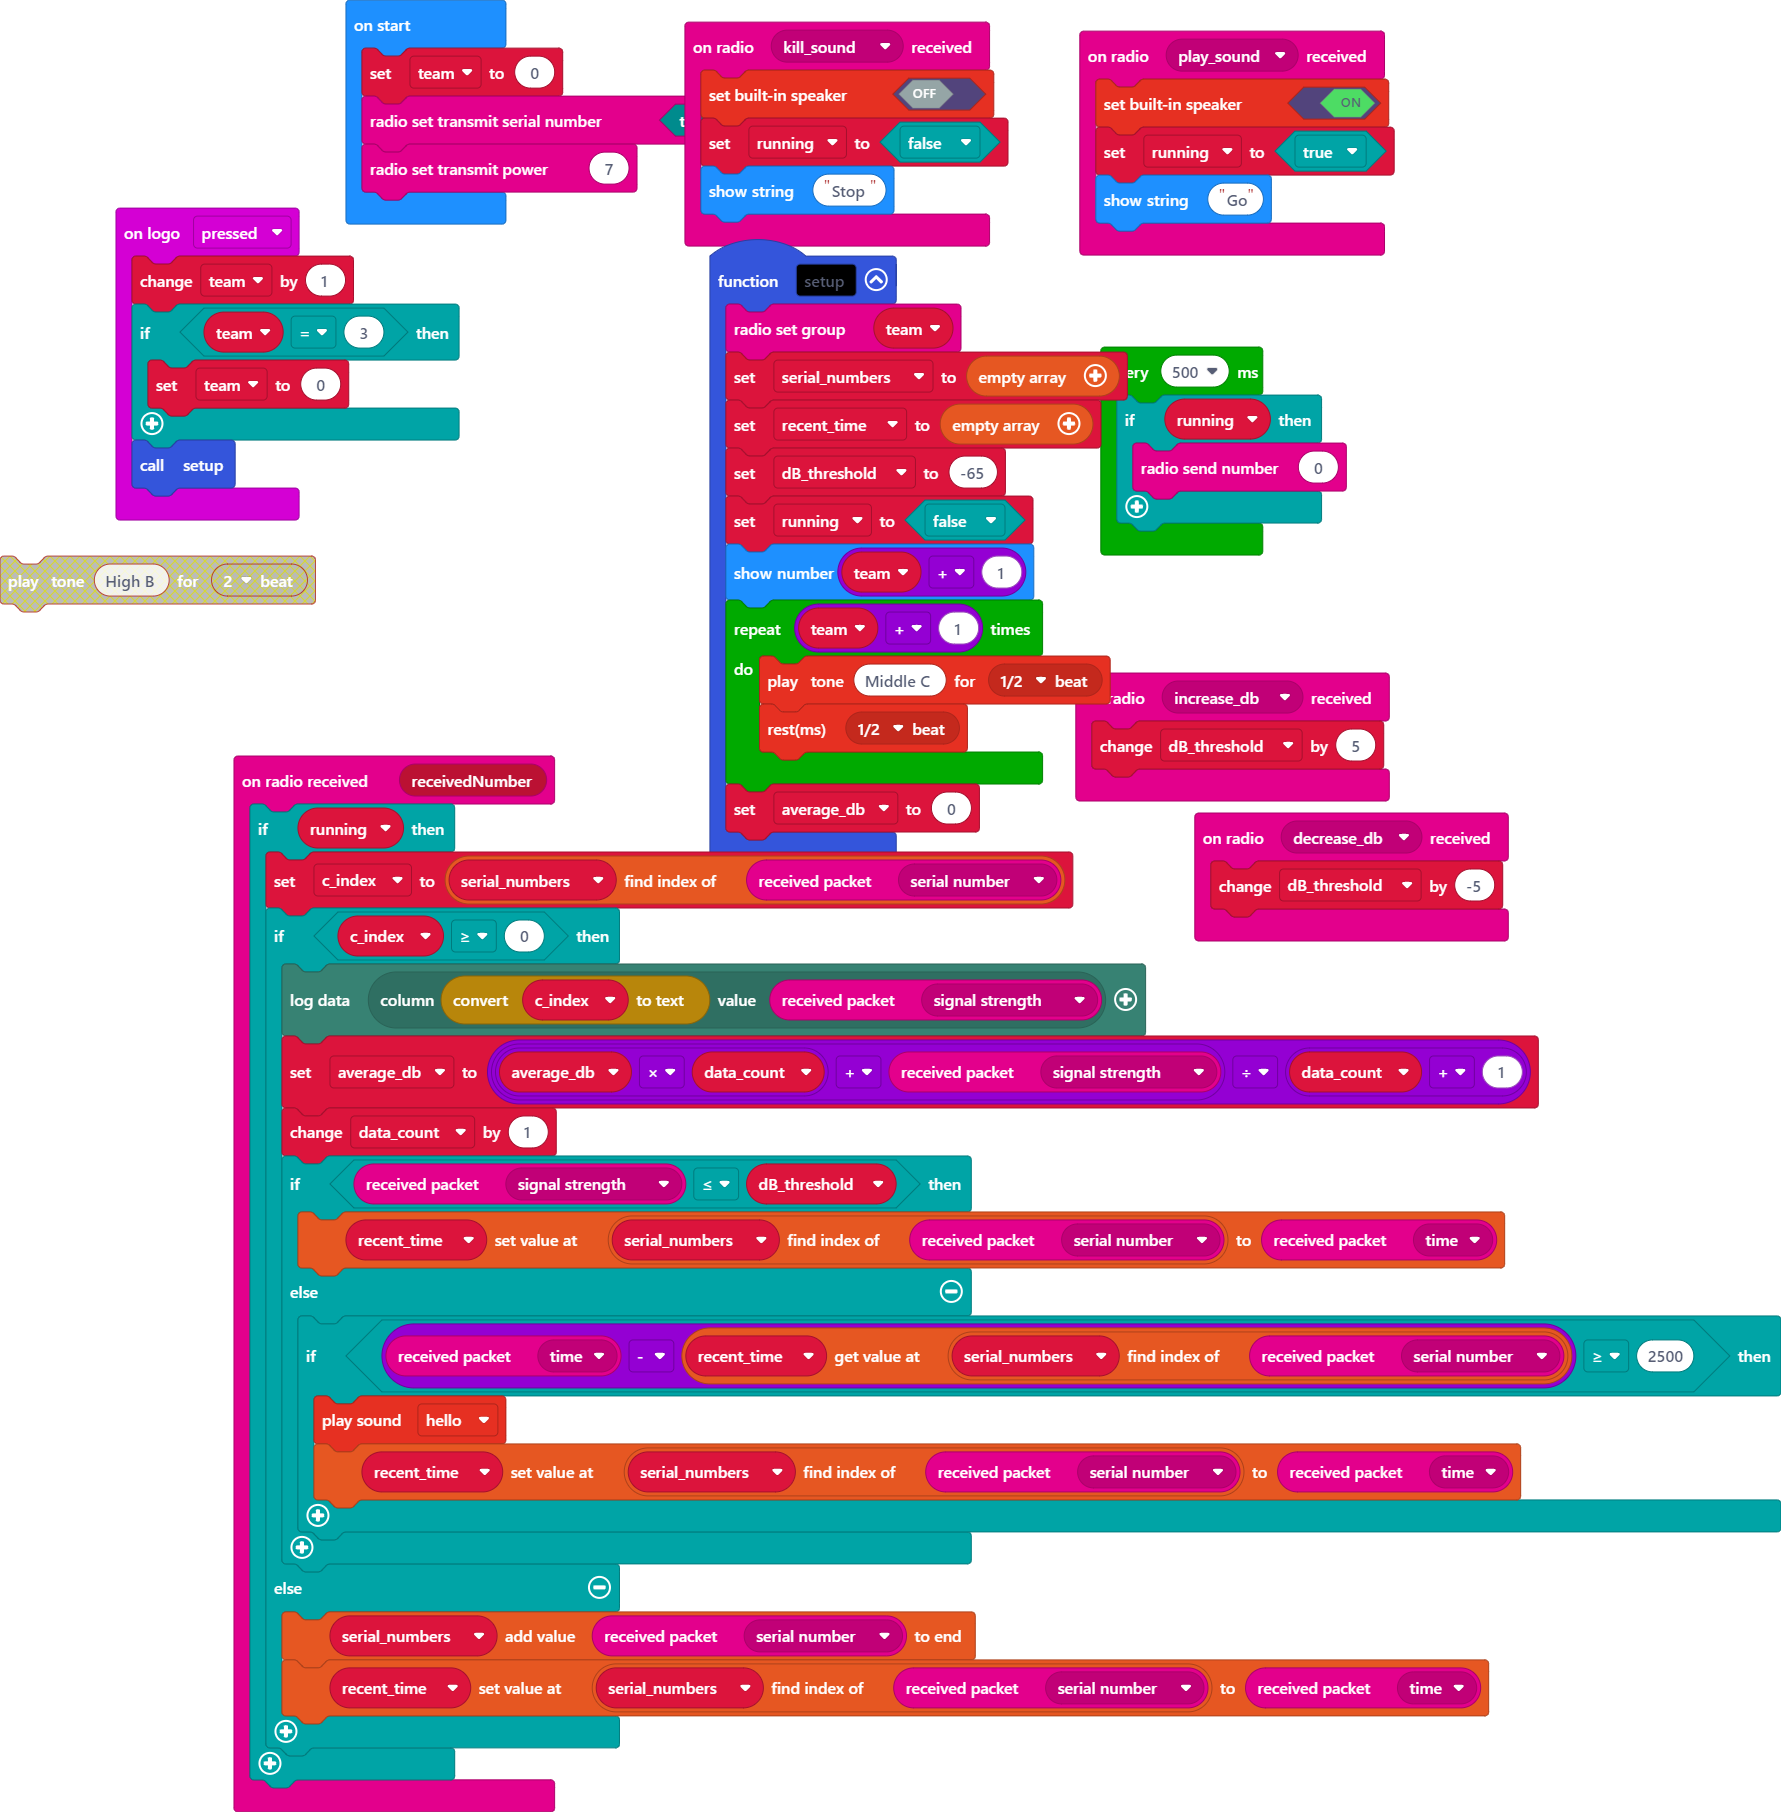
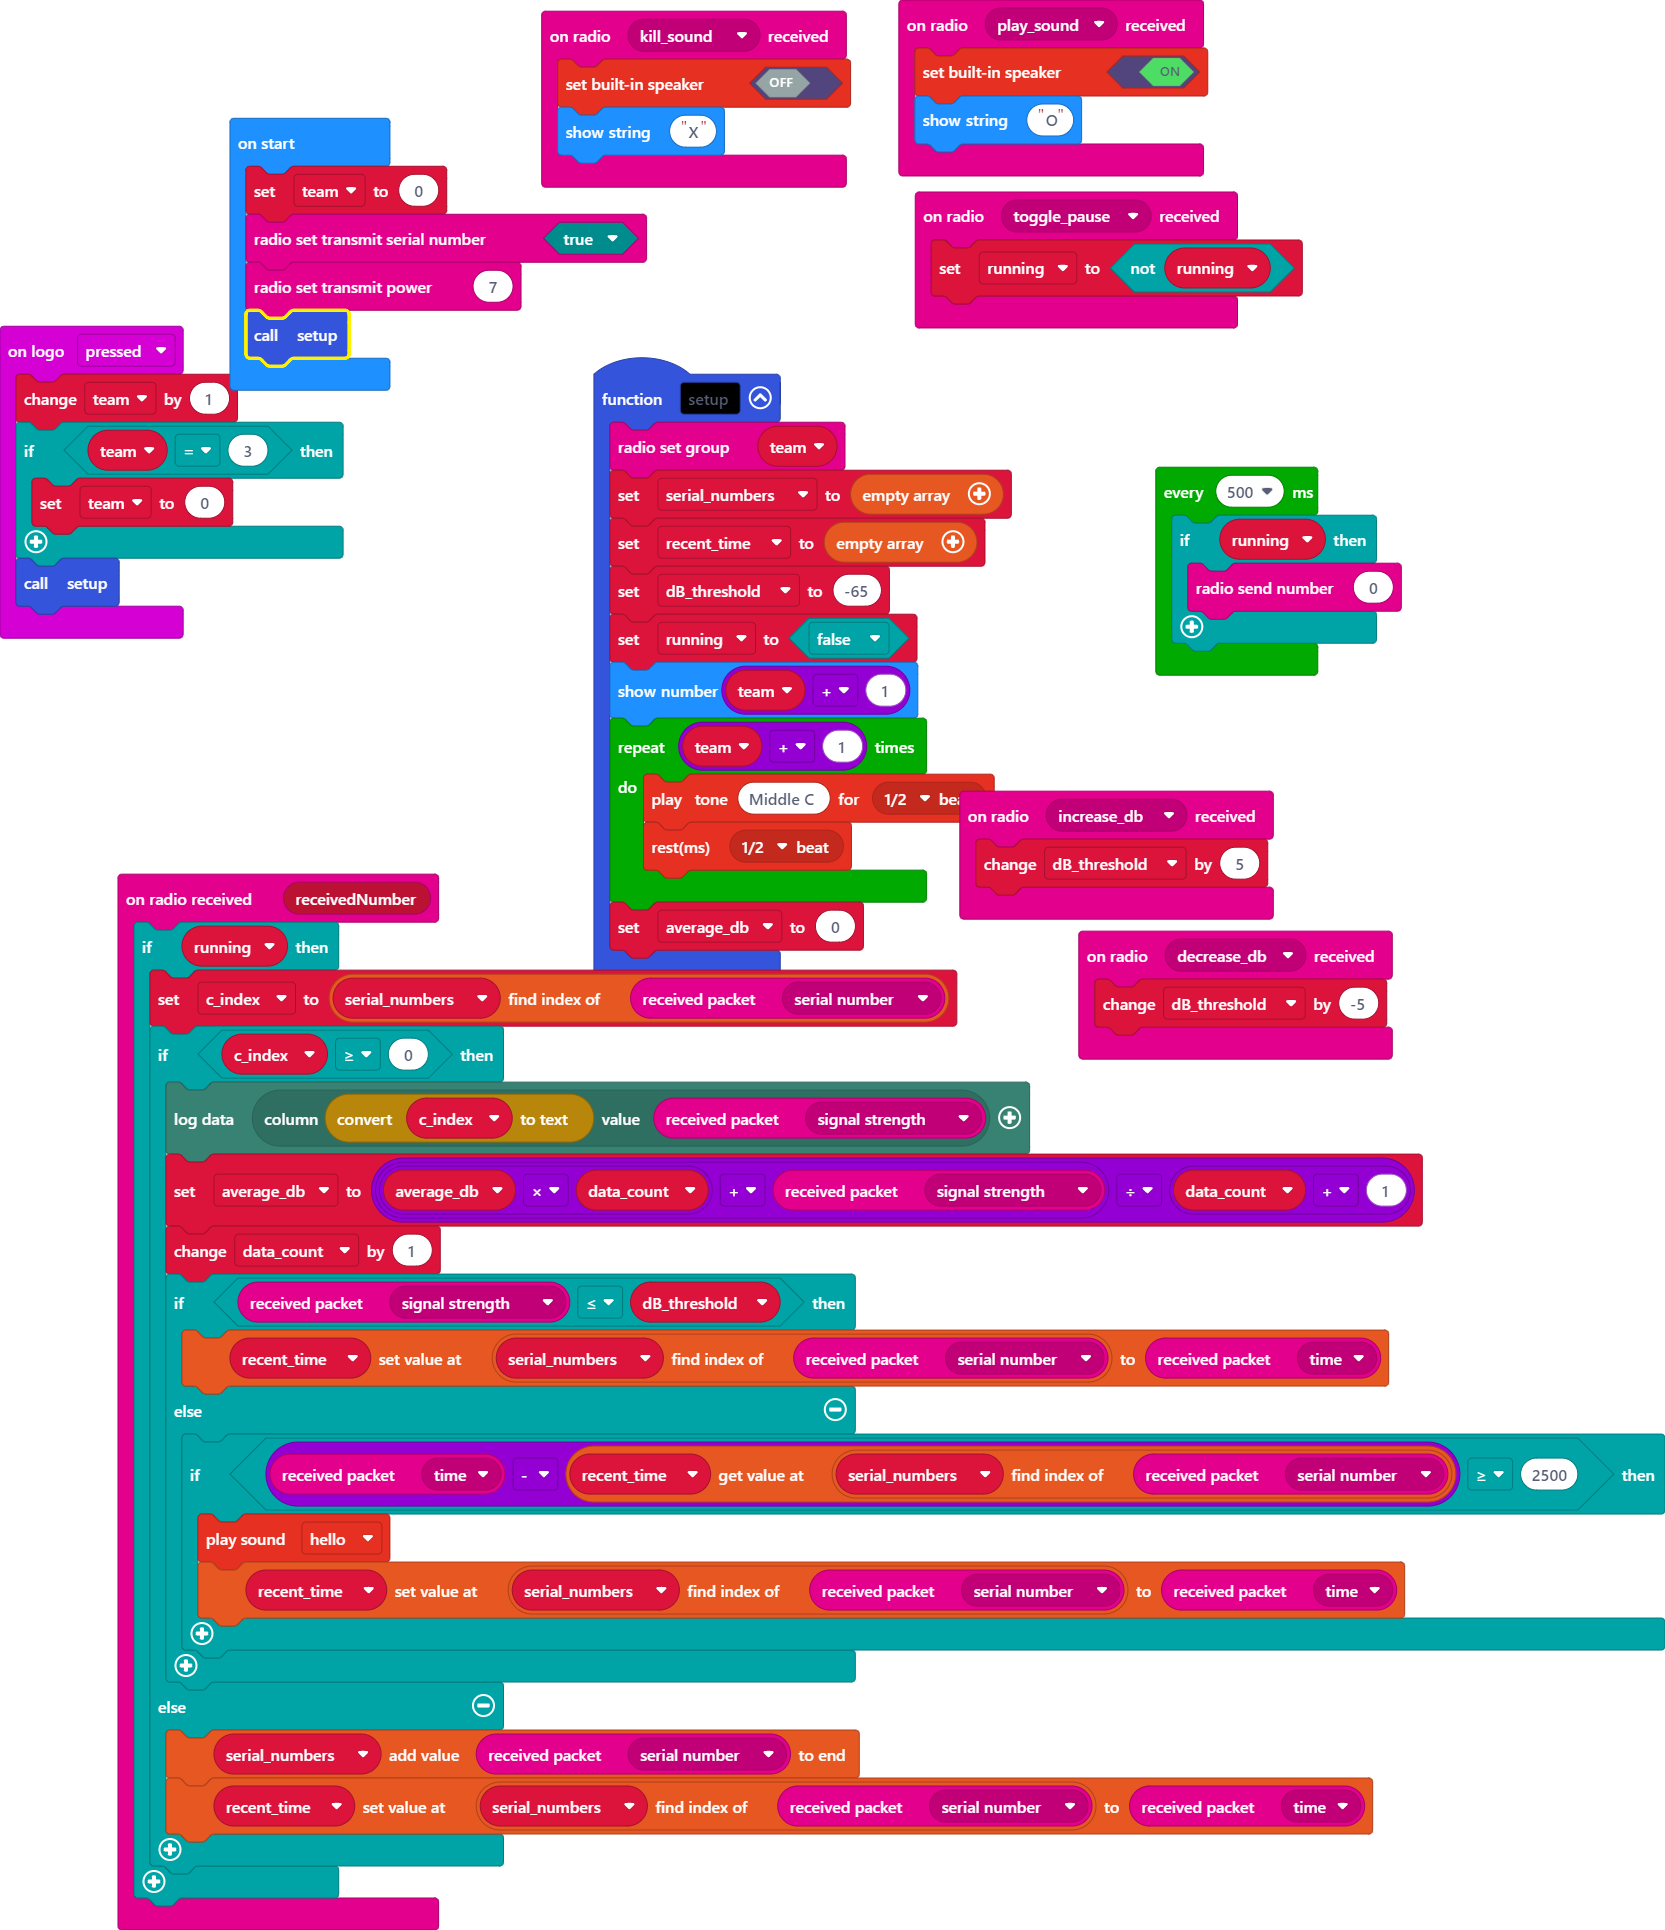
Update main.blocks, main.ts

diff --git a/main.ts b/main.ts
@@ -3,7 +3,8 @@ enum RadioMessage {
     increase_db = 24409,
     decrease_db = 42436,
     kill_sound = 3114,
-    play_sound = 6322
+    play_sound = 6322,
+    toggle_pause = 52104
 }
 radio.onReceivedNumber(function (receivedNumber) {
     if (running) {
@@ -26,18 +27,19 @@ radio.onReceivedNumber(function (receivedNumber) {
         }
     }
 })
+radio.onReceivedMessage(RadioMessage.toggle_pause, function () {
+    running = !(running)
+})
 radio.onReceivedMessage(RadioMessage.kill_sound, function () {
     music.setBuiltInSpeakerEnabled(false)
-    running = false
-    basic.showString("Stop")
+    basic.showString("X")
 })
 radio.onReceivedMessage(RadioMessage.increase_db, function () {
     dB_threshold += 5
 })
 radio.onReceivedMessage(RadioMessage.play_sound, function () {
     music.setBuiltInSpeakerEnabled(true)
-    running = true
-    basic.showString("Go")
+    basic.showString("O")
 })
 function setup () {
     radio.setGroup(team)
@@ -73,6 +75,7 @@ let team = 0
 team = 0
 radio.setTransmitSerialNumber(true)
 radio.setTransmitPower(7)
+setup()
 loops.everyInterval(500, function () {
     if (running) {
         radio.sendNumber(0)
